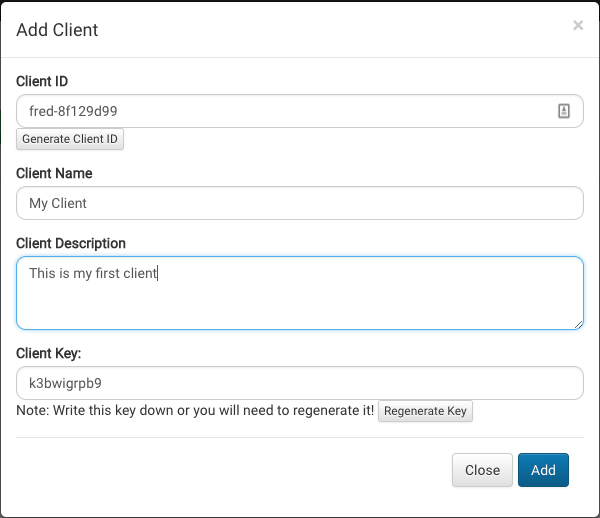
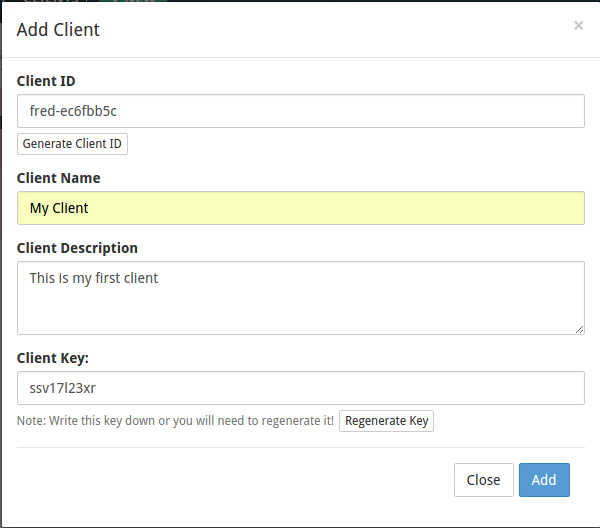
update screenshots, fix links
also remove "Information and Error Messages" from the side-bar

diff --git a/mqtt/create-client.md b/mqtt/create-client.md
@@ -8,7 +8,9 @@ title: "MQTT Docs: Create a client"
 
 Next, you'll need to create a client so you can connect to the MQTT service.  A client corresponds to a connection from FRED or Node-RED or a connection to a device.
 
-Click on the [Clients tab](http://mqtt.sensetecnic.com/dash/clients), then on the 'Add New' button.  A form will appear as shown below.
+![mqtt_clients_panel.png](/assets/images/mqtt_clients_panel.png)
+
+Click on the Clients tab, then on the 'Add New' button.  A form will appear as shown below.
 
 Fill in the form.  The service will generate a unique Client id for you based on your username, and a client key.  You can edit these fields if you like, but the client id must be unique to the system.
 
@@ -20,4 +22,7 @@ Add a name and description for the client, describing the device or connection t
 
 Click on 'Add' to create the new client.  You are now ready to send and receive messages to the service as described [next](/mqtt/connect-howto/).
 
+![mqtt_client_card.png](/assets/images/mqtt_client_card.png)
+
 [Connect using FRED >>](/mqtt/connect-howto/)
+

diff --git a/mqtt/public-private-topics.md b/mqtt/public-private-topics.md
@@ -17,6 +17,6 @@ The difference in public and private topic is mainly in the access permission in
 
 ## Edit Privacy of a topic
 
-To edit the privacy of a topic, simply click on a topic in the topic panel. As the *View Topic* modal shows up, you can click the _Edit_ button at the bottom of the modal to edit the setting of the topic. For more information of managing topics, please refer to [Clients Topics and Access Controls](/mqtt/clients-topics-and-access-control/)
+To edit the privacy of a topic, simply click on a topic in the topic panel. As the *View Topic* modal shows up, you can click the _Edit_ button at the bottom of the modal to edit the setting of the topic. For more information of managing topics, please refer to [Topics and Access Controls](/mqtt/topics-and-access-control/)
 
 >*Note:* The setting of the privacy of a topic would only affect the access permission of the subscription to a topic. For publishing to a topic, only the topic owner, or the user with the same username in the topic has access. 

diff --git a/mqtt/create-topic.md b/mqtt/create-topic.md
@@ -8,11 +8,15 @@ title: "MQTT Docs: Create a topic"
 
 By creating a managed topic on the STS MQTT service, you can provide a name and description of the data sent to this topic, view messages sent to the topic, and make the topic stream public using the management UI.
 
-To do so, click on the [Topics tab](http://mqtt.sensetecnic.com/dash/topics), then click on the 'Add New' button.  Fill in the form to create your topic.  For example, lets call our topic 'test' to view messages from our Node-RED flow as shown:
+![mqtt_topics_panel.png](/assets/images/mqtt_topics_panel.png)
+
+To do so, click on the topics tab, then click on the 'Add New' button.  Fill in the form to create your topic.  For example, lets call our topic 'test' to view messages from our Node-RED flow as shown:
 
 ![test_topic.png](/assets/images/mqtt_test_topic.png)
 
 Click on 'Add' to add the new topic.
+
+![mqtt_topics_list_view.png](/assets/images/mqtt_topics_list_view.png)
 
 In the topic list, click on the topic to view it.  
 

diff --git a/mqtt/register.md b/mqtt/register.md
@@ -6,7 +6,13 @@ title: "MQTT Docs: Register and Log in"
 
 # Register and Log in.
 
-To register for the STS-MQTT service, click on the “REGISTER FOR FREE” button on the [STS-MQTT home page](https://mqtt.sensetecnic.com). You will be redirected to the Sense Tecnic [Account Registration](https://users.sensetecnic.com/register) page.
+To register for the STS-MQTT service, click on the “REGISTER FOR FREE” button on the [STS-MQTT home page](https://mqtt.sensetecnic.com). 
+
+![mqtt_landing_page.png](/assets/images/mqtt_landing_page.png)
+
+You will be redirected to the Sense Tecnic [Account Registration](https://users.sensetecnic.com/register) page.
+
+![mqtt_registration.png](/assets/images/mqtt_registration.png)
 
 Fill out the form with your user name, first and last name, email address and password and hit submit.  You will be asked to validate your email address.
 

diff --git a/mqtt/status-and-monitoring.md b/mqtt/status-and-monitoring.md
@@ -14,7 +14,7 @@ Specifically the service sends data to the following topics:
 
 | Topic | Description |
 | ----- | ----------- |
-| <code>{% raw %}users/{username}/$SYS/{broker-id}/infoMessages{% endraw %}</code> | information messages as shown on the [status page](http://mqtt.sensetecnic.com/status) |
+| <code>{% raw %}users/{username}/$SYS/{broker-id}/infoMessages{% endraw %}</code> | information messages as shown on the [status page](/mqtt/status/) |
 | <code>{% raw %}users/{username}/$SYS/{broker-id}/errorMessages{% endraw %}</code> | error messages |
 | <code>{% raw %}users/{username}/$SYS/{broker-id}/messages{% endraw %}</code> | messages published since the broker started |
 | <code>{% raw %}users/{username}/$SYS/{broker-id}/messagesLastInterval{% endraw %}</code> | messages published during the last interval on the broker |

diff --git a/mqtt/managing-clients-and-keys.md b/mqtt/managing-clients-and-keys.md
@@ -32,6 +32,8 @@ In the Clients panel, you will be able to see a list of all the Clients you've c
 
 If you've forgotten your Client Key and need to regenerate another, simply click the *Regenerate Key* button and copy the new client key.
 
+![mqtt_regenerate_key.png](/assets/images/mqtt_regenerate_key.png)
+
 >*Note:* Any clients that were previously connected using the previous key will no longer be able to connect to the service.
 
 ## Delete Client  

diff --git a/mqtt/topics-and-access-control.md b/mqtt/topics-and-access-control.md
@@ -49,4 +49,4 @@ Users can also view the recent messages published to this topic in the _Recent M
 
 To edit or delete a topic, simply click on a topic in the topic panel. You can find the *Edit* and *Delete* buttons at the bottom of the modal. Simply click on these buttons.
 
->*Note* 
+

diff --git a/mqtt/index.md b/mqtt/index.md
@@ -23,6 +23,3 @@ This guide will help you get up and running with the STS MQTT service using FRED
 {% for p in c.pages %}
 - [{{p.text}}]({{p.url}}){% endfor %}
 
-Under construction:
-
-- Information and Error Messages
